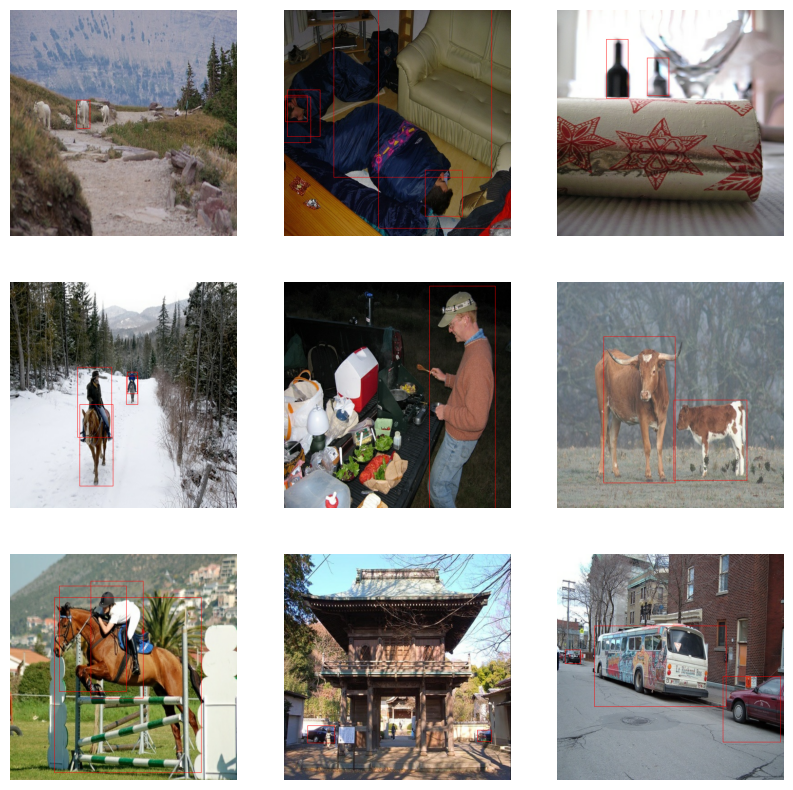
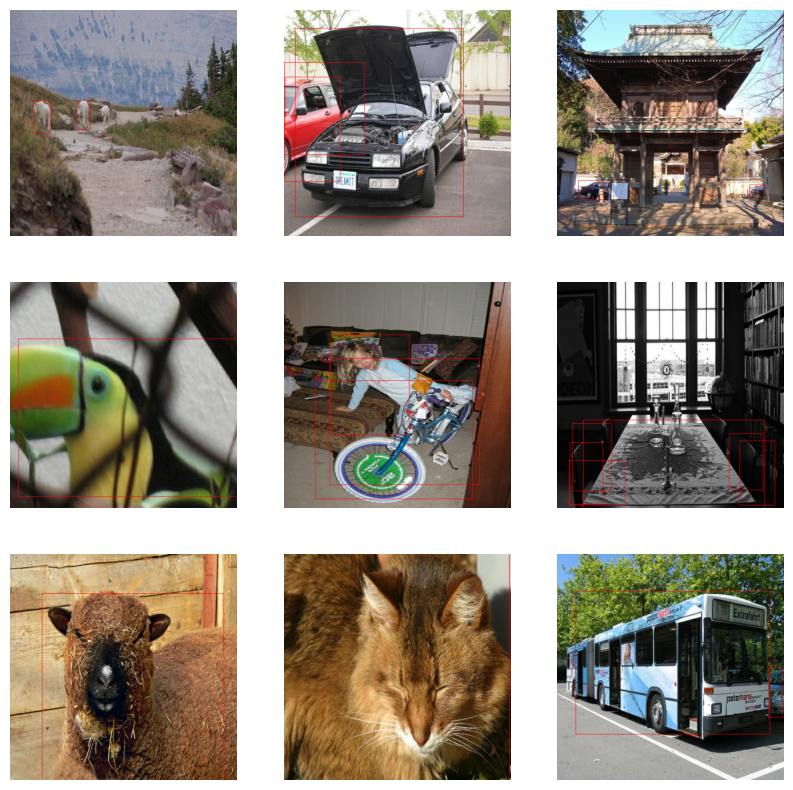
Add RetinaNet overview updates to include better augmentations

diff --git a/guides/md/keras_cv/retina_net_overview.md b/guides/md/keras_cv/retina_net_overview.md
@@ -90,6 +90,35 @@ def visualize_dataset(dataset, bounding_box_format):
 visualize_dataset(dataset, bounding_box_format="xywh")
 
 ```
+
+<div class="k-default-codeblock">
+```
+[1mDownloading and preparing dataset 868.85 MiB (download: 868.85 MiB, generated: Unknown size, total: 868.85 MiB) to ~/tensorflow_datasets/voc/2007/4.0.0...[0m
+
+Dl Completed...: 0 url [00:00, ? url/s]
+
+Dl Size...: 0 MiB [00:00, ? MiB/s]
+
+Extraction completed...: 0 file [00:00, ? file/s]
+
+Generating splits...:   0%|          | 0/3 [00:00<?, ? splits/s]
+
+Generating test examples...:   0%|          | 0/4952 [00:00<?, ? examples/s]
+
+Shuffling ~/tensorflow_datasets/voc/2007/4.0.0.incompleteY70G83/voc-test.tfrecord*...:   0%|          | 0/4952…
+
+Generating train examples...:   0%|          | 0/2501 [00:00<?, ? examples/s]
+
+Shuffling ~/tensorflow_datasets/voc/2007/4.0.0.incompleteY70G83/voc-train.tfrecord*...:   0%|          | 0/250…
+
+Generating validation examples...:   0%|          | 0/2510 [00:00<?, ? examples/s]
+
+Shuffling ~/tensorflow_datasets/voc/2007/4.0.0.incompleteY70G83/voc-validation.tfrecord*...:   0%|          | …
+
+[1mDataset voc downloaded and prepared to ~/tensorflow_datasets/voc/2007/4.0.0. Subsequent calls will reuse this data.[0m
+
+```
+</div>
     
 ![png](/img/guides/retina_net_overview/retina_net_overview_4_12.png)
     
@@ -121,25 +150,49 @@ val_ds, val_dataset_info = keras_cv.datasets.pascal_voc.load(
     bounding_box_format="xywh", split="validation", batch_size=BATCH_SIZE
 )
 
-augmenter = keras_cv.layers.Augmenter(
-    layers=[
-        keras_cv.layers.RandomColorJitter(
-            value_range=(0, 255),
-            brightness_factor=0.1,
-            contrast_factor=0.1,
-            saturation_factor=0.1,
-            hue_factor=0.1,
-        ),
-        keras_cv.layers.RandomSharpness(value_range=(0, 255), factor=0.1),
-    ]
+random_flip = keras_cv.layers.RandomFlip(mode="horizontal", bounding_box_format="xywh")
+rand_augment = keras_cv.layers.RandAugment(
+    value_range=(0, 255),
+    augmentations_per_image=2,
+    # we disable geometirc augmentations for object detection tasks
+    geometric=False,
 )
 
-train_ds = train_ds.map(augmenter, num_parallel_calls=tf.data.AUTOTUNE)
+
+def augment(inputs):
+    # In future KerasCV releases, RandAugment will support
+    # bounding box detection
+    inputs["images"] = rand_augment(inputs["images"])
+    inputs = random_flip(inputs)
+    return inputs
+
+
+train_ds = train_ds.map(augment, num_parallel_calls=tf.data.AUTOTUNE)
 visualize_dataset(train_ds, bounding_box_format="xywh")
 ```
 
+<div class="k-default-codeblock">
+```
+WARNING:tensorflow:Using a while_loop for converting RngReadAndSkip
+
+WARNING:tensorflow:Using a while_loop for converting RngReadAndSkip
+
+WARNING:tensorflow:Using a while_loop for converting Bitcast
+
+WARNING:tensorflow:Using a while_loop for converting Bitcast
+
+WARNING:tensorflow:Using a while_loop for converting Bitcast
+
+WARNING:tensorflow:Using a while_loop for converting Bitcast
+
+WARNING:tensorflow:Using a while_loop for converting StatelessRandomUniformV2
+
+WARNING:tensorflow:Using a while_loop for converting StatelessRandomUniformV2
+
+```
+</div>
     
-![png](/img/guides/retina_net_overview/retina_net_overview_7_28.png)
+![png](/img/guides/retina_net_overview/retina_net_overview_7_8.png)
     
 
 
@@ -301,7 +354,7 @@ model.save_weights(CHECKPOINT_PATH)
 
 <div class="k-default-codeblock">
 ```
-313/313 [==============================] - 145s 424ms/step - loss: 17.2746 - classification_loss: 10.0500 - box_loss: 6.8747 - val_Mean Average Precision: 0.0105 - val_Recall: 0.0744 - val_loss: 11.2469 - val_classification_loss: 5.2460 - val_box_loss: 5.6515 - val_regularization_loss: 0.3493 - lr: 0.0100
+313/313 [==============================] - 162s 481ms/step - loss: 12.5135 - classification_loss: 6.3680 - regularization_loss: 0.0000e+00 - box_loss: 6.1454 - val_Mean Average Precision: 0.0151 - val_Recall: 0.0432 - val_loss: 10.3468 - val_classification_loss: 5.1704 - val_box_loss: 5.1764 - val_regularization_loss: 0.0000e+00 - lr: 0.0100
 
 ```
 </div>
@@ -317,8 +370,8 @@ print(metrics)
 
 <div class="k-default-codeblock">
 ```
-100/100 [==============================] - 206s 2s/step - Mean Average Precision: 0.0457 - Recall: 0.2207 - loss: 7.7596 - classification_loss: 3.3602 - box_loss: 4.0531 - regularization_loss: 0.3463
-{'Mean Average Precision': 0.04574195295572281, 'Recall': 0.22066783905029297, 'loss': 7.759613513946533, 'classification_loss': 3.360184669494629, 'box_loss': 4.053106307983398, 'regularization_loss': 0.34632351994514465}
+100/100 [==============================] - 197s 2s/step - Mean Average Precision: 0.1165 - Recall: 0.2858 - loss: 5.3522 - classification_loss: 2.3509 - box_loss: 3.0013 - regularization_loss: 0.0000e+00
+{'Mean Average Precision': 0.1164998784661293, 'Recall': 0.2858008146286011, 'loss': 5.352220058441162, 'classification_loss': 2.3509249687194824, 'box_loss': 3.001293897628784, 'regularization_loss': 0.0}
 
 ```
 </div>
@@ -358,7 +411,7 @@ visualize_detections(model)
 
 <div class="k-default-codeblock">
 ```
-1/1 [==============================] - 4s 4s/step
+1/1 [==============================] - 5s 5s/step
 
 ```
 </div>
